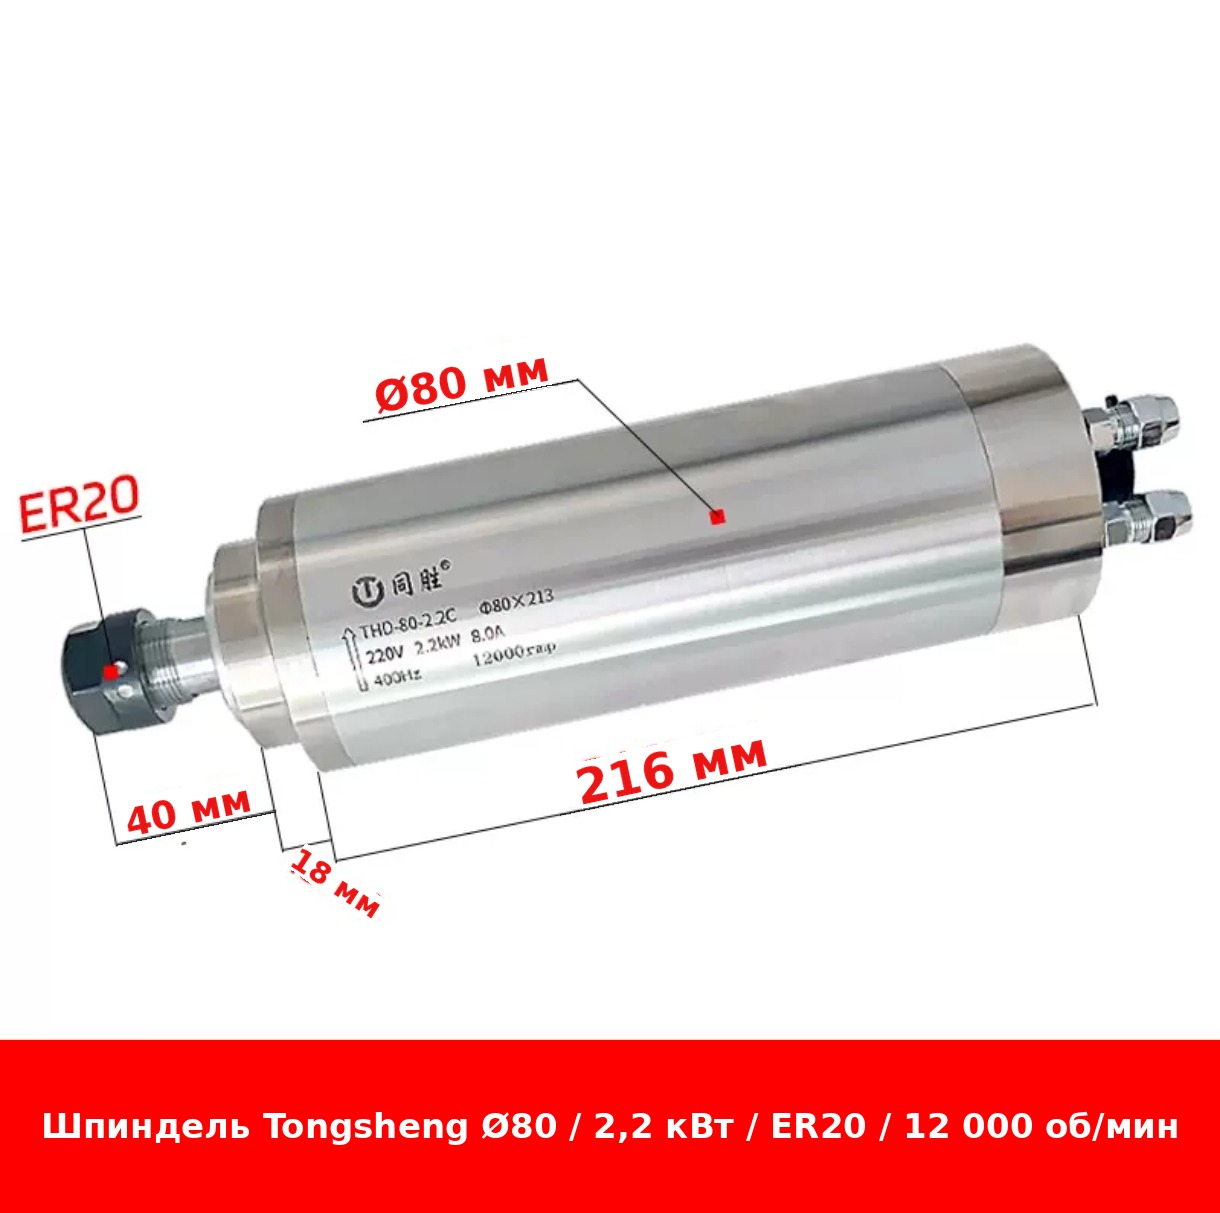
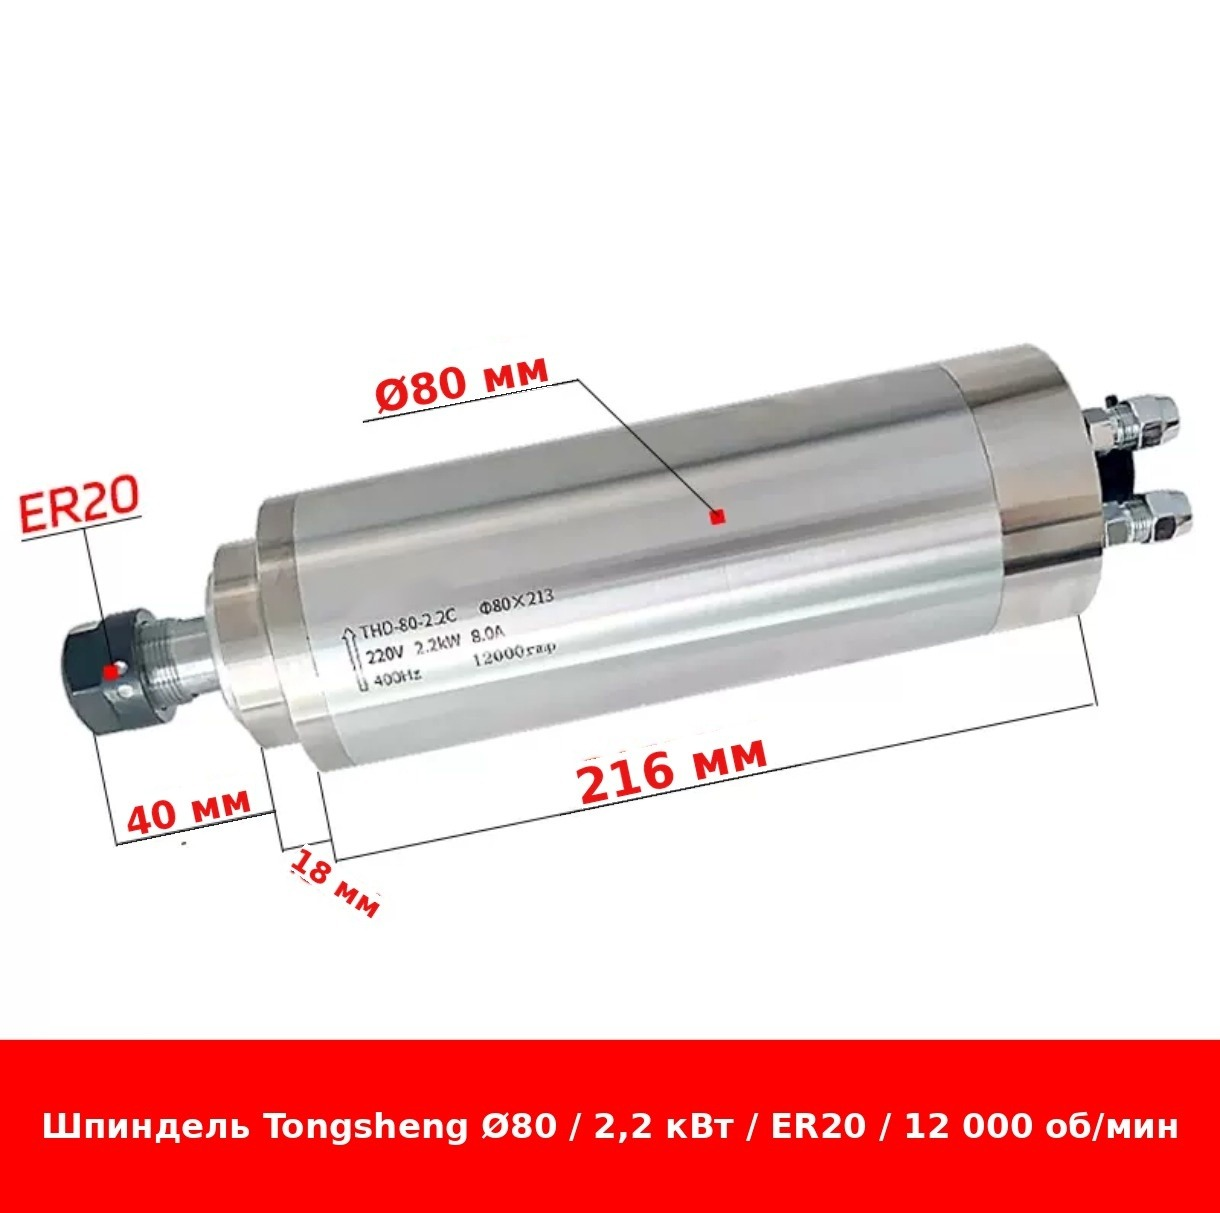
Без иероглифов: Tongsheng без 同胜 в тексте, логотип с иероглифами убран с фото

diff --git a/spindle-changsheng.html b/spindle-changsheng.html
@@ -33,7 +33,7 @@
 </header>
 <main style="max-width:1100px;margin:20px auto;padding:0 16px;">
     <h1>Шпиндели для ЧПУ — все модели</h1>
-    <p>Все шпиндели в одном разделе, независимо от производителя и модели: Changsheng (Чаншэн) серии GDZ, Tongsheng (同胜) и другие. Цены и наличие уточняйте у менеджера.</p>
+    <p>Все шпиндели в одном разделе, независимо от производителя и модели: Changsheng (Чаншэн) серии GDZ, Tongsheng и другие. Цены и наличие уточняйте у менеджера.</p>
 
     <div class="variant-list" id="variants"></div>
 </main>
@@ -48,7 +48,7 @@ const variants = [
   {brand:'Changsheng (Чаншэн)', id:'cs-65-800-air', name:'Чаншэн 65×188 / 0.8 кВт / 4 подшипника / воздушное', price:12500, priceUsd:132, power:'0.8 кВт', voltage:'220В', rpm:'24000', collet:'ER11', cooling:'Воздушное', size:'65×188 мм', weight:'2.8 кг', img:'https://via.placeholder.com/400x200/f0f0f0/333?text=Шпиндель+0.8кВт'},
   {brand:'Changsheng (Чаншэн)', id:'cs-80-2.2-air', name:'Чаншэн 80×195 / 2.2 кВт / 4 подшипника / воздушное', price:21500, priceUsd:226, power:'2.2 кВт', voltage:'220В', rpm:'24000', collet:'ER20', cooling:'Воздушное', size:'80×195 мм', weight:'4.5 кг', img:'https://via.placeholder.com/400x200/f0f0f0/333?text=Шпиндель+2.2кВт+воздушный'},
   {brand:'Changsheng (Чаншэн)', id:'cs-125-5.5', name:'Чаншэн GDZ-125-5.5 125×298 / 5.5 кВт / ER25 / 380В / 4 подшипника P4', price:89000, priceUsd:935, power:'5.5 кВт', voltage:'380В', current:'8А', rpm:'24000', collet:'ER25', cooling:'Водяное', size:'125×298 мм', weight:'22 кг', img:'images/changsheng-gdz125-5.5kw-ru.jpg'},
-  {brand:'Tongsheng (同胜)', id:'tongsheng-80-2.2-12k', name:'Tongsheng (同胜) THD-80-2.2C 80×213 / 2.2 кВт / ER20 / 220В / 12000 об/мин (высокий момент)', price:0, priceOnRequest:true, power:'2.2 кВт', voltage:'220В', current:'8А', rpm:'12000', collet:'ER20', cooling:'Водяное (уточнить)', size:'80×213 мм', weight:'уточнить', img:'images/tongsheng-thd80-2.2c-ru.jpg'},
+  {brand:'Tongsheng', id:'tongsheng-80-2.2-12k', name:'Tongsheng THD-80-2.2C 80×213 / 2.2 кВт / ER20 / 220В / 12000 об/мин (высокий момент)', price:0, priceOnRequest:true, power:'2.2 кВт', voltage:'220В', current:'8А', rpm:'12000', collet:'ER20', cooling:'Водяное (уточнить)', size:'80×213 мм', weight:'уточнить', img:'images/tongsheng-thd80-2.2c-ru.jpg'},
   {brand:'Другие модели (производитель уточняется)', id:'spindle-2.2', name:'Шпиндель для ЧПУ 2.2 кВт GDZ', price:18500, power:'2.2 кВт', voltage:'уточнить', rpm:'24000', collet:'ER20', cooling:'Водяное', size:'Ø80 мм', weight:'уточнить', img:''},
   {brand:'Другие модели (производитель уточняется)', id:'spindle-1.5', name:'Шпиндель 1.5 кВт с водяным охлаждением (для станков 3040/4060)', price:14900, power:'1.5 кВт', voltage:'уточнить', rpm:'уточнить', collet:'уточнить', cooling:'Водяное', size:'уточнить', weight:'уточнить', img:''},
   {brand:'Другие модели (производитель уточняется)', id:'spindle-800', name:'Шпиндель 0.8 кВт воздушное охлаждение (компактный)', price:8900, power:'0.8 кВт', voltage:'уточнить', rpm:'уточнить', collet:'уточнить', cooling:'Воздушное', size:'уточнить', weight:'уточнить', img:''}

diff --git a/marketplace.html b/marketplace.html
@@ -111,7 +111,7 @@ const products = [
     { id: 'spindle-1.5', title: 'Шпиндель 1.5 кВт с водяным охлаждением', price: 14900, cat: 'spindle', desc: 'Для станков 3040/4060, надёжный', img: '', link: 'spindle-changsheng.html' },
     { id: 'spindle-800', title: 'Шпиндель 0.8 кВт воздушное охлаждение', price: 8900, cat: 'spindle', desc: 'Компактный, для небольших станков', img: '', link: 'spindle-changsheng.html' },
     { id: 'changsheng-5.5', title: 'Шпиндель Changsheng (CS) GDZ-125-5.5 5.5 кВт', price: 89000, cat: 'spindle', desc: '380В, 8 А, 400 Гц, 24000 об/мин, ER25, Ø125×298 мм, водяное охлаждение, 4 подшипника P4, 22 кг', img: 'images/changsheng-gdz125-5.5kw-ru.jpg', link: 'spindle-changsheng.html' },
-    { id: 'tongsheng-80-2.2-12k', title: 'Шпиндель Tongsheng (同胜) THD-80-2.2C 2.2 кВт, 12000 об/мин', price: 0, priceOnRequest: true, cat: 'spindle', desc: '220В, 8 А, 400 Гц, 12000 об/мин (высокий момент, для металла и твёрдых пород), ER20, Ø80×213 мм, водяное охлаждение', img: 'images/tongsheng-thd80-2.2c-ru.jpg', link: 'spindle-changsheng.html' },
+    { id: 'tongsheng-80-2.2-12k', title: 'Шпиндель Tongsheng THD-80-2.2C 2.2 кВт, 12000 об/мин', price: 0, priceOnRequest: true, cat: 'spindle', desc: '220В, 8 А, 400 Гц, 12000 об/мин (высокий момент, для металла и твёрдых пород), ER20, Ø80×213 мм, водяное охлаждение', img: 'images/tongsheng-thd80-2.2c-ru.jpg', link: 'spindle-changsheng.html' },
     { id: 'frezy-set', title: 'Комплект фрез для ЧПУ (10 шт)', price: 4200, cat: 'tools', desc: 'По дереву, акрилу, пластику' },
     { id: 'freza-6mm', title: 'Фреза спиральная 6 мм однозаходная', price: 890, cat: 'tools', desc: 'Для дерева и акрила' },
     { id: 'guides-hgr15', title: 'Линейные направляющие HGR15 комплект', price: 9200, cat: 'mechanics', desc: 'Для осей X/Y, высокая точность' },
